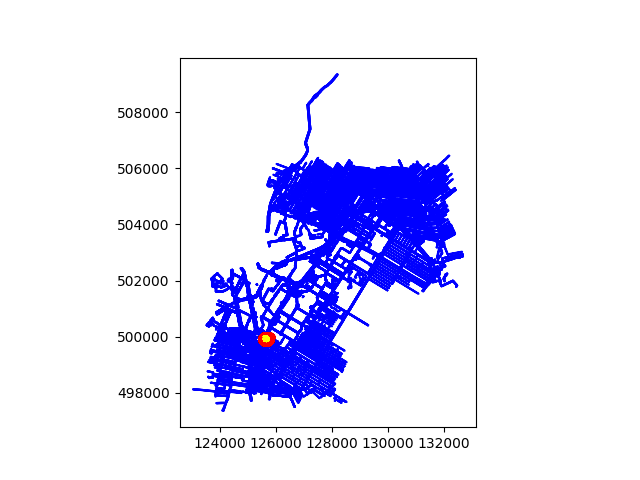
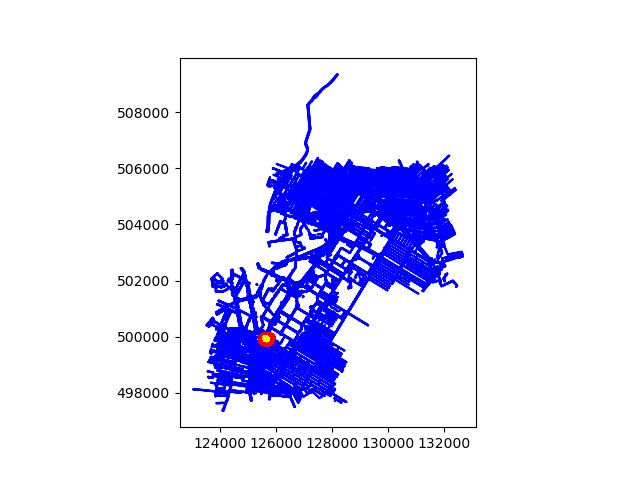
Update code with last status

diff --git a/src/lazpy.py b/src/lazpy.py
@@ -180,10 +180,3 @@ ax.set_aspect("equal")
 # write plot to disk in folder reports/figures
 plt.savefig("reports/figures/map_laspoint.png")
 # plt.show()
-
-# buildings = laspy.create(
-#     point_format=las.header.point_format, file_version=las.header.version
-# )
-# buildings.points = las.points[las.classification == 6]
-
-# buildings.write("data/processed/buildings.las")
